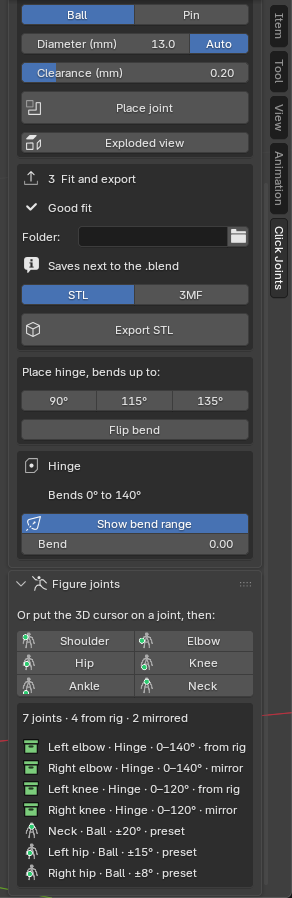
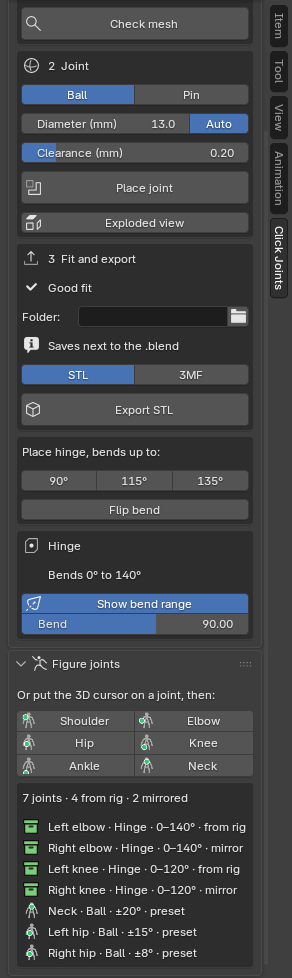
Ruben run 22: Daan moet 1 tot 4 op plaatje 19 (beeld rustig en groter, rechterknie 60 en elleboog 90 gebogen met de Bend-schuif, figuur als beukenhouten tekenpop, getallen 22 px wit met donkere rand, kogelgetal niet op het model); lokaal 5.3.0 plaatje 15, 16, 17, 19 OK
Claude-Session: https://claude.ai/code/session_01RMWUyhfN6Xo1ctP8FSCEmD

diff --git a/producten/blender-gewrichten/click_joints/betaald/figuur_teken.py b/producten/blender-gewrichten/click_joints/betaald/figuur_teken.py
@@ -17,7 +17,8 @@ from mathutils import Vector
 
 FIGUUR_X = 0.7      # zelfde verkleining als de scharnierboog bij een figuur
 AFSTAND_PX = 40.0   # Daan: geen twee getallen binnen 40 px op 1920 van elkaar (gat tussen de tekstvakken)
-PX = 16             # zelfde maat als het scharniergetal bij een figuur
+WIT = (1.0, 1.0, 1.0)  # getal van een figuur: wit met donkere rand
+PX = 22             # zelfde maat als het scharniergetal bij een figuur (Daan 17 nov moet 4: ±22 px op 1920, was 16)
 _oud = [None]
 laatst = {}         # bewijs voor de schermtest: wat de laatste tekenbeurt van de figuur tekende
 
@@ -33,16 +34,17 @@ def kleur(ob):
 
 
 def tekst_rand(punt, tekst, kleur_, px):
-    """Tekst met een donkere rand van 1 px: acht keer donker 1 px verschoven, dan de tekst zelf."""
+    """Tekst met een donkere rand van 2 px: donker verschoven in een ring tot 2 px, dan de tekst zelf.
+    Daan 17 nov moet 4: wit met een donkere rand leest op elke ondergrond, groen op groen niet."""
     import blf
     if punt is None:
         return False
     blf.size(0, px)
     breed, hoog = blf.dimensions(0, tekst)
     x0, y0 = punt.x - breed / 2.0, punt.y - hoog / 2.0
-    for dx in (-1, 0, 1):
-        for dy in (-1, 0, 1):
-            if dx or dy:
+    for dx in (-2, -1, 0, 1, 2):
+        for dy in (-2, -1, 0, 1, 2):
+            if (dx or dy) and abs(dx) + abs(dy) < 4:
                 blf.color(0, 0.05, 0.05, 0.05, 1.0)
                 blf.position(0, x0 + dx, y0 + dy, 0)
                 blf.draw(0, tekst)
@@ -130,6 +132,23 @@ def scharnier_getallen(context, regio, rv3d):
     return uit
 
 
+def op_model(context, regio, rv3d, vk, rand):
+    """True als een straal door het tekstvak (hoeken met rand, middens van de randen, midden) een zichtbaar object
+    raakt. In orthografische en perspectiefweergave gelijk, via de eigen hulp van Blender voor de kijkstraal."""
+    from bpy_extras.view3d_utils import region_2d_to_origin_3d, region_2d_to_vector_3d
+    dg = context.evaluated_depsgraph_get()
+    x0, y0, x1, y1 = vk[0] - rand, vk[1] - rand, vk[2] + rand, vk[3] + rand
+    xm, ym = (x0 + x1) / 2.0, (y0 + y1) / 2.0
+    for x, y in ((x0, y0), (x1, y0), (x0, y1), (x1, y1), (xm, ym), (xm, y0), (xm, y1), (x0, ym), (x1, ym)):
+        o = region_2d_to_origin_3d(regio, rv3d, (x, y))
+        r = region_2d_to_vector_3d(regio, rv3d, (x, y))
+        if rv3d.view_perspective == "ORTHO":
+            o = o - r * 10000.0  # oorsprong van een ortho-straal ligt soms midden in de scène
+        if context.scene.ray_cast(dg, o, r)[0]:
+            return True
+    return False
+
+
 def kogel_plekken(context, regio, rv3d):
     """Plek van elk kogelgetal van een figuur in dit beeld: {naam deel B: (punt, vak)}.
     Begin aan de buitenkant van het lid (van het figuurmidden naar het kogelmidden, in beeld), net buiten de wig;
@@ -169,16 +188,25 @@ def kogel_plekken(context, regio, rv3d):
         r_px = max((naar2d(regio, rv3d, x) - c2).length for x in (v["links"], v["rechts"], v["as_eind"])
                    if naar2d(regio, rv3d, x) is not None) if c2 else 0.0
         gekozen = None
-        for t in [r_px + 22.0 * schaal + 12.0 * schaal * i for i in range(30)]:
-            for g in sorted(range(-165, 181, 15), key=abs):
-                h = math.radians(g)
-                d = Vector((uit.x * math.cos(h) - uit.y * math.sin(h), uit.x * math.sin(h) + uit.y * math.cos(h)))
-                p = c2 + d * t
-                vk = vak(p, v["tekst"], px)
-                if vk[0] < 0 or vk[1] < 0 or vk[2] > regio.width or vk[3] > regio.height - 100.0 * schaal:
-                    continue
-                if all(gat(vk, o) >= AFSTAND_PX * schaal for o in bezet):
+        # Daan 17 nov moet 4: een getal hoort naast het lid, niet op het model (±20° van de nek stond op de kin).
+        # Eerste ronde: alleen plekken waar het tekstvak het model niet raakt (stralen door het vak); niets vrij,
+        # dan de oude regel zonder die eis.
+        for vrij_van_model in (True, False):
+            for t in [r_px + 22.0 * schaal + 12.0 * schaal * i for i in range(30)]:
+                for g in sorted(range(-165, 181, 15), key=abs):
+                    h = math.radians(g)
+                    d = Vector((uit.x * math.cos(h) - uit.y * math.sin(h), uit.x * math.sin(h) + uit.y * math.cos(h)))
+                    p = c2 + d * t
+                    vk = vak(p, v["tekst"], px)
+                    if vk[0] < 0 or vk[1] < 0 or vk[2] > regio.width or vk[3] > regio.height - 100.0 * schaal:
+                        continue
+                    if not all(gat(vk, o) >= AFSTAND_PX * schaal for o in bezet):
+                        continue
+                    if vrij_van_model and op_model(context, regio, rv3d, vk, 4.0 * schaal):
+                        continue
                     gekozen = (p, vk)
+                    break
+                if gekozen:
                     break
             if gekozen:
                 break
@@ -216,7 +244,7 @@ def teken_kogel(regio, rv3d, a, b, schaal):
     for x in ("links", "rechts"):
         waaier._lijn(dik, regio, [c2, naar2d(regio, rv3d, v[x])], (*KL, 0.9), 3.0 * schaal)
     waaier._lijn(dik, regio, boog, (*KL, 0.9), 3.0 * schaal)
-    getal = tekst_rand(p_tekst, v["tekst"], KL, int(PX * schaal))
+    getal = tekst_rand(p_tekst, v["tekst"], WIT, int(PX * schaal))
     uit = {"pose": round(float(b.get("cj_pose_graden", 0.0)), 3), "richting": int(b.get("cj_pose_richting", 0)),
            "getal": v["tekst"], "getal_getekend": getal, "streepjes": 0, "kijkhoek": 90.0, "omtrek": 0,
            "voorbij": False, "voorbij_tekst": None, "label_px": tuple(p_tekst), "figuur": True, "kleur": KL,

diff --git a/producten/blender-gewrichten/e2e/scherm_mens.py b/producten/blender-gewrichten/e2e/scherm_mens.py
@@ -28,6 +28,48 @@ exec(compile(_src, "proef_mens.py", "exec"), M)
 A = M["A"]
 
 staat = {}
+BEUK = (0.80, 0.62, 0.43, 1.0)  # matte lichte beukenhoutkleur (Daan 17 nov moet 3)
+BUIG = {"Right elbow": 90.0, "Right knee": 60.0}  # Daan 17 nov moet 2: een elleboog ±90, een knie ±60, de rest recht
+
+
+def etalagepop(ob):
+    """Daan 17 nov moet 3: de MakeHuman-figuur als houten tekenpop, niet als kaal mens. Alleen de invoer verandert
+    (vorm, kleur, glad), daarna draait de knop zoals altijd; de toets toetsen_mens rekent op de figuur zonder dit.
+    Borst plat: punten aan de voorkant tussen z 146 en 172 (220 mm hoog, gemeten run 22) schuiven naar het vlak
+    y = -2,5 mm, met een zachte overgang in hoogte en breedte, alleen naar achteren (nooit door de rug)."""
+    for v in ob.data.vertices:
+        c = v.co
+        if c.y >= -2.5 or abs(c.x) < 4.0 or abs(c.x) > 36.0:
+            continue
+        wz = max(0.0, 1.0 - abs(c.z - 159.0) / 13.0)
+        wx = min(1.0, (abs(c.x) - 4.0) / 6.0) * min(1.0, (36.0 - abs(c.x)) / 6.0)
+        w = math.sin(wz * math.pi / 2.0) ** 2 * wx
+        c.y = c.y + (-2.5 - c.y) * w
+    for f in ob.data.polygons:
+        f.use_smooth = True
+    mat = bpy.data.materials.new("beuk")
+    mat.diffuse_color = BEUK
+    mat.roughness = 0.9
+    ob.data.materials.clear()
+    ob.data.materials.append(mat)
+    ob.data.update()
+
+
+def buig():
+    """Moet 2: buig met de eigen Bend-schuif van het paneel (zelfde weg als een koper), eindig op de elleboog."""
+    wm = bpy.context.window_manager
+    delen = {o.get("cj_naam"): o for o in bpy.context.scene.objects
+             if o.get("cj_deel") == "B" and o.get("cj_figuur") and o.get("cj_soort") == "SCHARNIER"}
+    gebogen = {}
+    for naam in ("Right knee", "Right elbow"):  # elleboog aan de kant van de kijker, zijn waaier staat niet achter de hand
+        b = delen.get(naam)
+        if b is None:
+            continue
+        A["actief"](b)
+        wm.cj_scharnier_pose = BUIG[naam]
+        gebogen[naam] = round(float(b.get("cj_pose_graden", 0.0)), 1)
+    staat["gebogen"] = gebogen
+    log(f"MENS gebogen {gebogen} delen={sorted(k for k in delen if k)}")
 
 
 def bouw():
@@ -42,6 +84,8 @@ def bouw():
         if nieuw is not ob:
             bpy.data.objects.remove(ob)
             ob = nieuw
+    if os.environ.get("CJ_POP", "1") == "1":
+        etalagepop(ob)
     naam = ob.name
     arm = M["maak_rig"](punten)
     arm.data.display_type = "STICK"
@@ -56,7 +100,21 @@ def bouw():
     staat["lijst"] = fig.figuur_gewrichten(bpy.context.scene.objects, naam)
     staat["regels"] = [fig.regel(r) for r in staat["lijst"]]
     staat["samenvatting"] = fig.samenvatting(staat["lijst"])
+    buig()
     log(f"MENS knop {staat['knop']} regels={staat['regels']} samenvatting={staat['samenvatting']}")
+
+
+def rustig():
+    """Moet 1: alleen de 3D-weergave met het paneel (tijdlijn en eigenschappen weg), rasters, assen, 3D-cursor en
+    de tekst linksboven uit. Ctrl+Spatie (screen_full_area) houdt kop, gereedschapsbalk en zijbalk."""
+    venster, gebied, _ = zijbalk()
+    regio = next(r for r in gebied.regions if r.type == "WINDOW")
+    with bpy.context.temp_override(window=venster, area=gebied, region=regio):
+        bpy.ops.screen.screen_full_area()
+    venster, gebied, _ = zijbalk()
+    ov = gebied.spaces.active.overlay
+    for k in ("show_floor", "show_axis_x", "show_axis_y", "show_axis_z", "show_cursor", "show_text", "show_outline_selected"):
+        setattr(ov, k, False)
 
 
 def kijk():
@@ -70,8 +128,8 @@ def kijk():
     # Schuin van voren: de knieas ligt langs X (waaier zichtbaar van opzij), de elleboogas niet (zichtbaar van voren).
     rv.view_rotation = Euler((math.radians(float(os.environ.get("CJ_KANTEL", "82"))), 0.0,
                               math.radians(float(os.environ.get("CJ_DRAAI", "-35")))), "XYZ").to_quaternion()
-    rv.view_location = (0.0, 0.0, 112.0)
-    rv.view_distance = float(os.environ.get("CJ_AFSTAND", "330"))
+    rv.view_location = (float(os.environ.get("CJ_MIDX", "-12")), 0.0, float(os.environ.get("CJ_MIDZ", "110")))
+    rv.view_distance = float(os.environ.get("CJ_AFSTAND", "335"))
 
 
 def uitsnede():
@@ -96,6 +154,7 @@ def stap():
         return 1.0
     if n == 2:
         bouw()
+        rustig()
         open_paneel()
         kijk()
         return 1.0
@@ -136,7 +195,7 @@ def stap():
     vakken = [k["vak"] for k in kogels if k.get("getal_getekend")]
     for b in bogen:
         if b.get("label_px"):
-            vakken_s = ft.vak(Vector(b["label_px"]), b["getal"], int(16 * schaal))
+            vakken_s = ft.vak(Vector(b["label_px"]), b["getal"], int(boog.FIGUUR_PX * schaal))
             vakken.append(vakken_s)
     gaten = [ft.gat(k["vak"], o) for k in kogels for o in vakken if tuple(o) != tuple(k["vak"])]
     min_gat = round(min(gaten), 1) if gaten else None

diff --git a/producten/blender-gewrichten/click_joints/betaald/scharnier_boog.py b/producten/blender-gewrichten/click_joints/betaald/scharnier_boog.py
@@ -24,7 +24,7 @@ STREEP = 5          # graden tussen twee streepjes
 POSE_LANG = 1.15
 ROOD_PX = 24        # "+N° past limit": groot genoeg voor een winkelplaatje (16 was te klein)
 FIGUUR_X = 0.7      # Pro 1.1 (Daan punt 1): bij een figuur een kleinere boog, in de passingkleur, met alleen het getal
-FIGUUR_PX = 16
+FIGUUR_PX = 22  # Daan 17 nov moet 4 (was 16)
 _handler = [None]
 laatst = {}  # wat de laatste tekenbeurt tekende, voor het bewijs in de schermtest
 
@@ -269,7 +269,7 @@ def _teken_een(regio, rv3d, a, b, schaal, actief=True):
             nul = waaier._tekst(0, p(v["label_0"]), "0°", WIT, int(20 * schaal))
         if fig:  # donkere rand van 1 px, zodat het getal los van het model staat (Daan, 16 nov, kan)
             from .figuur_teken import tekst_rand
-            getal = tekst_rand(q["label"], f"{v['getal']}°", KL, int(FIGUUR_PX * schaal))
+            getal = tekst_rand(q["label"], f"{v['getal']}°", WIT, int(FIGUUR_PX * schaal))
         else:
             getal = waaier._tekst(0, q["label"], f"{v['getal']}°", KL, int(20 * schaal))
     rood_tekst, vrij = False, None

diff --git a/producten/blender-gewrichten/e2e/scherm_rig_armen.py b/producten/blender-gewrichten/e2e/scherm_rig_armen.py
@@ -110,7 +110,7 @@ def stap():
     vakken = [k["vak"] for k in kogels if k.get("getal_getekend")]
     for b in bogen:
         if b.get("label_px"):
-            vakken_s = ft.vak(Vector(b["label_px"]), b["getal"], int(16 * schaal))
+            vakken_s = ft.vak(Vector(b["label_px"]), b["getal"], int(boog.FIGUUR_PX * schaal))
             vakken.append(vakken_s)
     gaten = [ft.gat(k["vak"], o) for k in kogels for o in vakken if tuple(o) != tuple(k["vak"])]
     min_gat = round(min(gaten), 1) if gaten else None

diff --git a/producten/blender-gewrichten/ontwerp-1.1.md b/producten/blender-gewrichten/ontwerp-1.1.md
@@ -168,3 +168,13 @@ Stap 2 en 3: eisen volgen bij de bouw van stap 2 (Rigify-figuur, Mixamo-figuur, 
 - Lokaal 5.3.0: `toetsen_mens`, `toetsen_rig`, `toetsen_rig_armen`, `toetsen_rigify`, `toetsen_figuur`, `toetsen_meshy_rig` 0 FOUT. 4.2 en 5.2: CI.
 - Les: een toets die alleen telt (aantal gewrichten, bereik) ziet niet of een gewricht bruikbaar is. Kijk ook naar de maat.
 - **Daan moet 5 (plaatje 19, 17 nov ±04:55):** samenvatting kort, `7 joints · 4 from rig · 2 mirrored`, en in de regel `mirror` in plaats van `mirrored` (de herkomst in de gegevens blijft `mirrored`). Niets loopt meer af in het paneel (plaatje 19 opnieuw). Toetsen aangepast. Moet 1 tot 4 (beeld rustiger en groter, een elleboog en knie gebogen, figuur als tekenpop, labels groter en naast de nek, smallere heupbanden) en de nieuwe kop volgen in de volgende runs, samen met de schouders.
+
+### Run 22 (17 nov ±05:00 tot 05:45 UTC, Ruben): Daans moet 1 tot 4 op plaatje 19
+- CI van 2604fa7 nog niet nagekeken deze run (geen `gh run`); lokaal 5.3.0 alles OK, zie onder.
+- **Moet 1, beeld rustig en groter:** `scherm_mens.py` zet de 3D-weergave op het hele venster (`screen.screen_full_area`, Ctrl+Spatie: tijdlijn en eigenschappenkolom weg, gereedschapsbalk en zijbalk blijven), overlays raster, X/Y/Z-as, 3D-cursor, tekst linksboven en de oranje selectierand uit. Figuur vult nu ±80% van de hoogte (y 100 tot 965 op 1080). Kijkhoek schuin van voren blijft.
+- **Moet 2, hij buigt:** rechterknie 60° en rechterelleboog 90° met de eigen Bend-schuif van het paneel (zelfde weg als een koper: actief maken, `cj_scharnier_pose`). Rechts gekozen omdat die elleboog aan de kant van de kijker zit; de linker verdween achter de hand. Zijaanzicht nagekeken: de knie buigt naar achteren, de elleboog naar voren. Paneel staat op het gebogen scharnier (`Bend 90.00`).
+- **Moet 3, tekenpop:** alleen de invoer van het schermbeeld (`etalagepop`, uit te zetten met `CJ_POP=0`): borst plat naar het vlak y = -2,5 mm met zachte overgang, alle vlakken glad (`use_smooth`), één mat materiaal in beukenhoutkleur (0,80 / 0,62 / 0,43). De knop draait daarna zoals altijd; `toetsen_mens` blijft op de kale figuur. Een geslachtschuif op neutraal kan niet zonder de MakeHuman-doelbestanden; de plat gemaakte borst plus hout leest al als pop, maar heupen en taille blijven die van de basisfiguur. Eerlijk gezegd, Daan kijkt.
+- **Moet 4, labels (in de add-on zelf, dus ook voor kopers):** getallen bij een figuur 22 px (was 16), wit met een donkere rand van 2 px (was groen met 1 px). Kogelgetallen zoeken eerst een plek waar het tekstvak het model niet raakt (`figuur_teken.op_model`: negen kijkstralen door het vak, met `scene.ray_cast`); lukt dat nergens, dan de oude regel. `±20°` van de nek staat nu naast de nek in plaats van op de kin. Het 40 px-gat blijft (kleinste gat nu 63,8 px).
+- **Open, de heupbanden:** de groene vlakken bij de heupen zijn nog brede blokken. Vermoeden: `kleur.vlakken_met_hoekpunt_in_ring` kleurt een heel vlak zodra één hoekpunt in de ring ligt, en de booleaanse snede maakt lange driehoeken tot ver van de naad. Volgende run: meten welke vlakken (ring of kogelgebied) en bij een figuur lange vlakken alleen op hun eigen deel kleuren.
+- **Nog niet gedaan:** de kop `One click. Every joint. How far it bends.` De kop in de weergave is die van het actieve scharnier (`Right elbow: bends 0° to 140°`), een eerlijke regel van de add-on; een reclamekop hoort niet in de add-on. Voorstel: als onderschrift op het winkelplaatje zelf, apart van het schermbeeld.
+- Lokaal 5.3.0: plaatje 19 (`MENS BEELD OK`, `MENS KOGELS OK`), plaatje 16 (`RIG BEELD OK`), 17 (`ARMEN BEELD OK`), 15 (`FIGUUR OK`).
